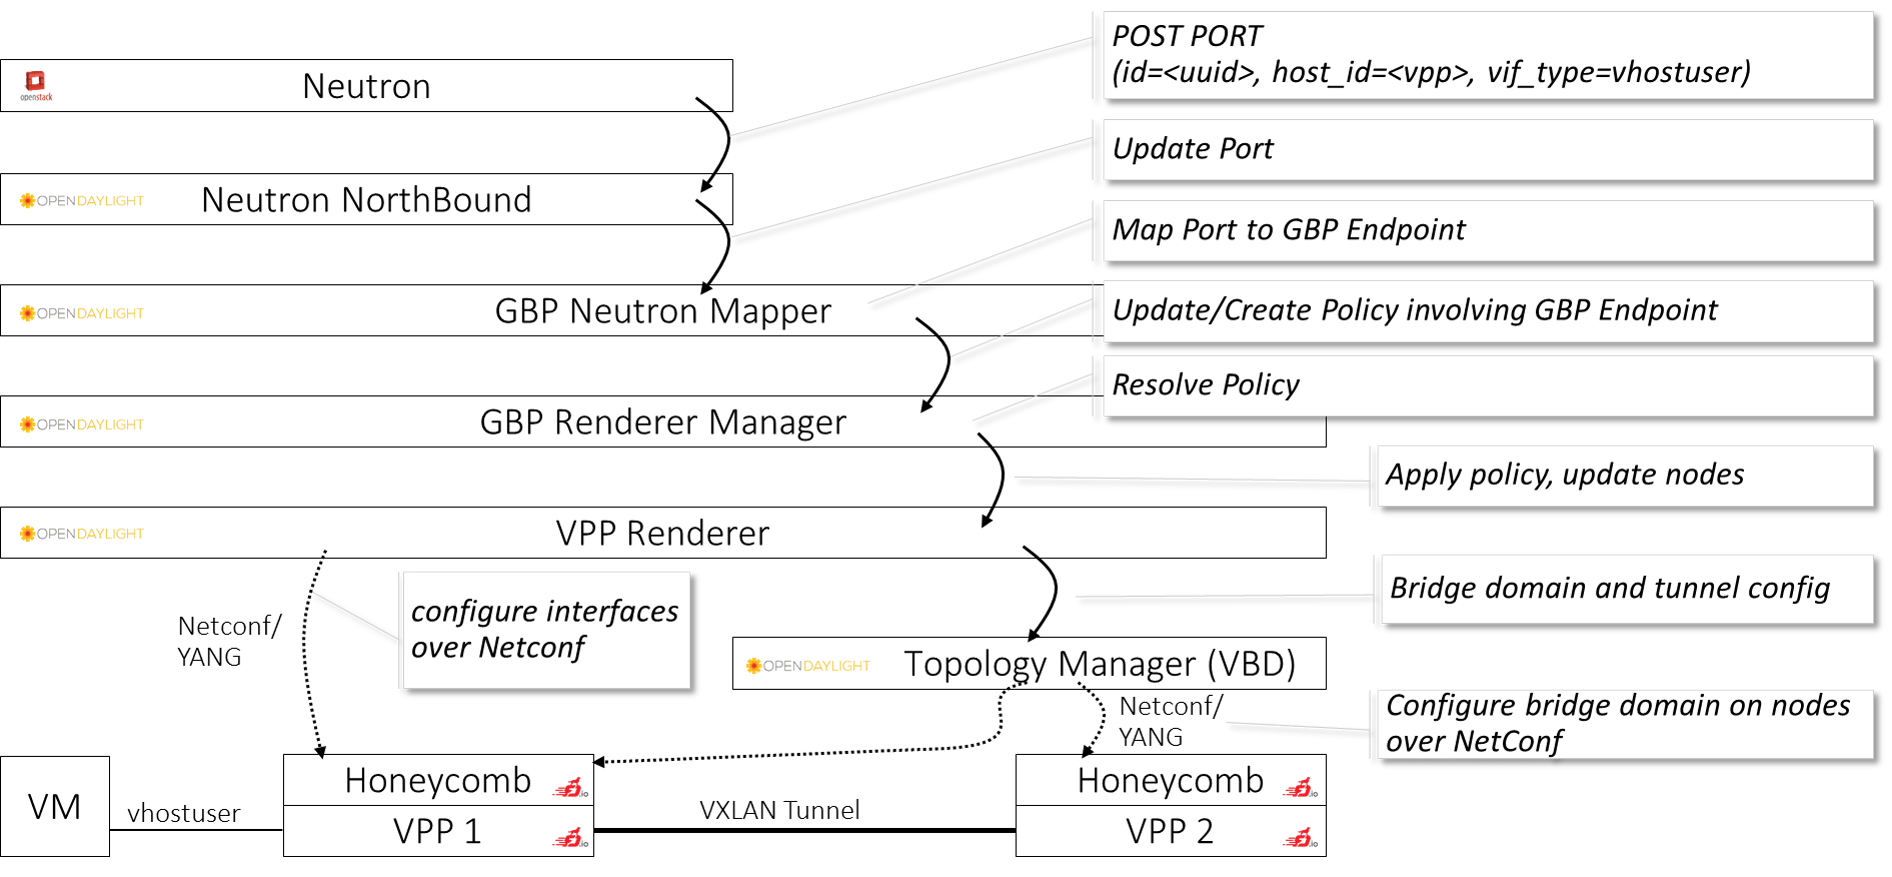
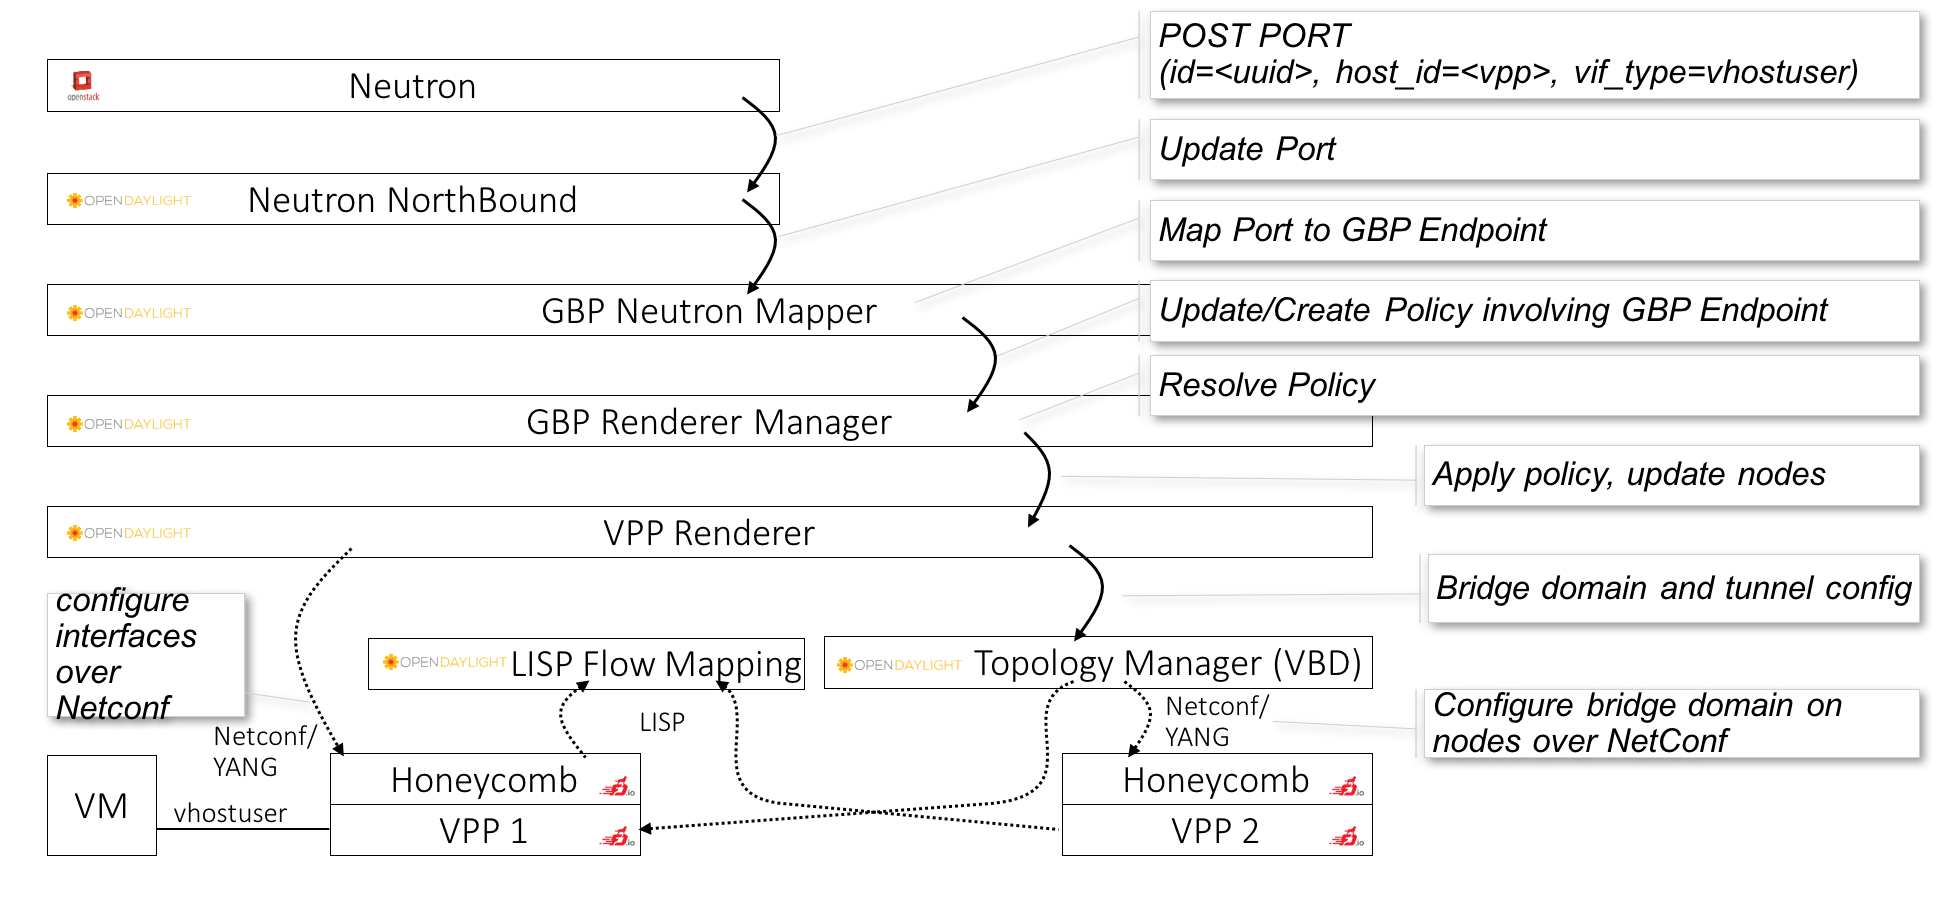
FDS DVR doc - Updated flow diagram for LISP
(cherry picked from commit db7737ed1c781a5e5d8c368ceeeae140551c50b3)

Changed region(s): [[0.0, 0.0, 0.9979, 0.9852], [0.0, 0.862, 0.1559, 0.9544]]

diff --git a/docs/scenarios/os-odl-fdio-dvr-noha/scenario.description.rst b/docs/scenarios/os-odl-fdio-dvr-noha/scenario.description.rst
@@ -214,8 +214,6 @@ To provide a better understanding how the above mentioned components interact
 with each other, the following diagram shows how the example of creating a
 vhost-user port on VPP through Openstack Neutron:
 
-TODO: Add LISP components to diagram
-
 .. image:: FDS-simple-callflow.png
 
 DHCP Packet Flow
